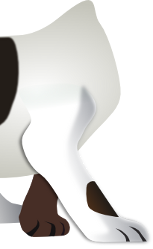
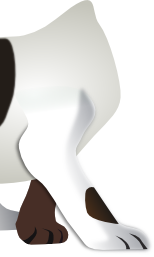
Changes: rescaled simple pussy game

diff --git a/qml/KidPuzzleSymbian/BoardSimplePuppy.qml b/qml/KidPuzzleSymbian/BoardSimplePuppy.qml
@@ -6,21 +6,21 @@ Board {
 
     Bit {
         source: "simple_puppy_ball.png"
-        dockX: UI.leftMargin + 10; dockY:5; boardX: UI.leftMargin + 486; boardY: 214; dockW: 80; dockH: 80
+        dockX: UI.leftMargin + 10; dockY:5; boardX: UI.leftMargin + 502; boardY: UI.screenHeight - 139; dockW: 80; dockH: 80
     }
     Bit {
         source: "simple_puppy_head.png"
-        dockX: UI.leftMargin + 10; dockY:95; boardX: UI.leftMargin + 338; boardY: 24; dockW: 80; dockH: 80
+        dockX: UI.leftMargin + 10; dockY:95; boardX: UI.leftMargin + 350; boardY: UI.screenHeight - 335; dockW: 80; dockH: 80
         z: 5
     }
     Bit {
         source: "simple_puppy_rear.png"
-        dockX: UI.leftMargin + 20; dockY:195; boardX: UI.leftMargin + 104; boardY: 60; dockW: 70; dockH: 80
+        dockX: UI.leftMargin + 20; dockY:195; boardX: UI.leftMargin + 107; boardY: UI.screenHeight - 298; dockW: 70; dockH: 80
         z: 3
     }
     Bit {
         source: "simple_puppy_front.png"
-        dockX: UI.leftMargin + 20; dockY:275; boardX: UI.leftMargin + 291; boardY: 60; dockW: 68; dockH: 80
+        dockX: UI.leftMargin + 20; dockY:275; boardX: UI.leftMargin + 304; boardY: UI.screenHeight - 298; dockW: 68; dockH: 80
         z: 3
     }
 

diff --git a/qml/KidPuzzleSymbian/UI.js b/qml/KidPuzzleSymbian/UI.js
@@ -25,7 +25,7 @@ function finished() {
 //Common
 var screenWidth = 640;
 var screenHeight = 360;
-var leftMargin = 40; //how  big margin for 800x480 game? On 854 screen it is 54, for Symbian 40
+var leftMargin = 0; //how  big margin for 800x480 game? On 854 screen it is 54, for Symbian 40
 
 //main grid
 var gridCellWidth = 280;
@@ -41,4 +41,4 @@ var nrBaloons = 15;
 var seedTime = 10000;
 var baloonColors = ["baloon_red.png", "baloon_green.png", "baloon_yellow.png", "baloon_blue.png"];
 var nrColors = 4;
-var boardWidth = 600;
+var boardWidth = 640;
